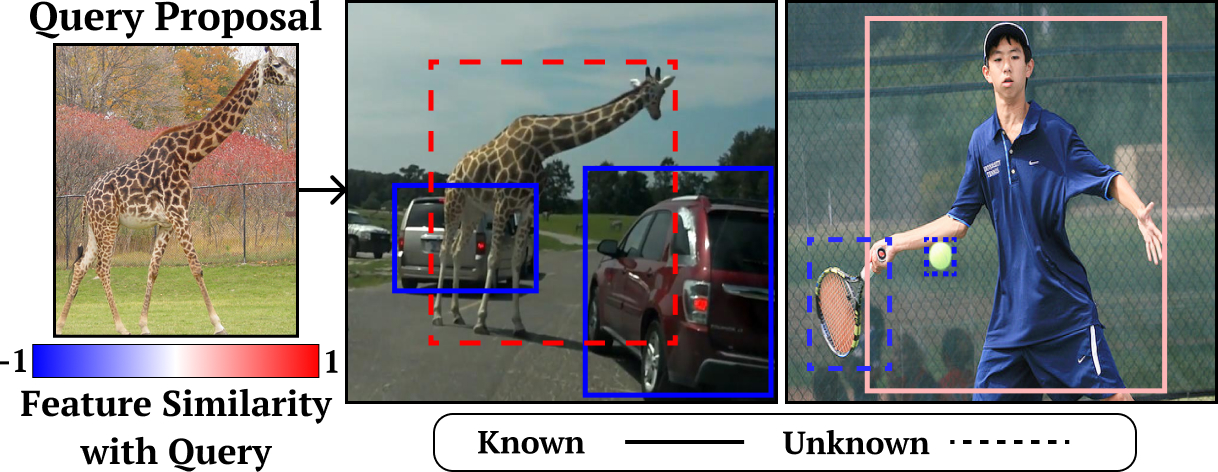
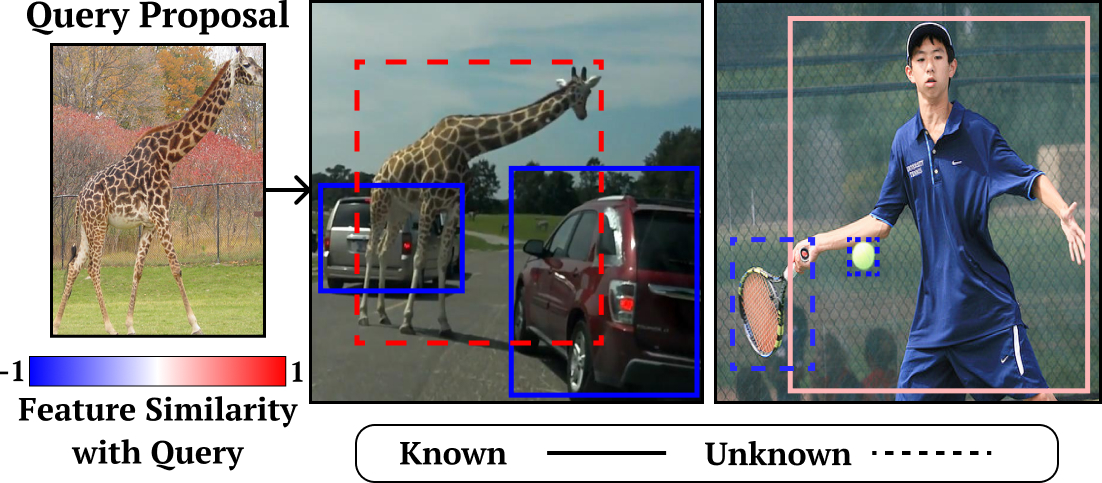
OWRL-2

diff --git a/index.html b/index.html
@@ -121,7 +121,7 @@
               <br>
           Sunoh Lee*,
           <strong><u>Minsik Jeon*</u></strong>,
-          <a href="http://junwon.me">Junwon Seo*</a>,
+          <a href="http://junwon.me">Junwon Seo</a>,
           Jihong Min
               <br>
               <em>Submitted to IEEE International Conference on Robotics and Automation (<strong>ICRA</strong>)</em>, 2025.
